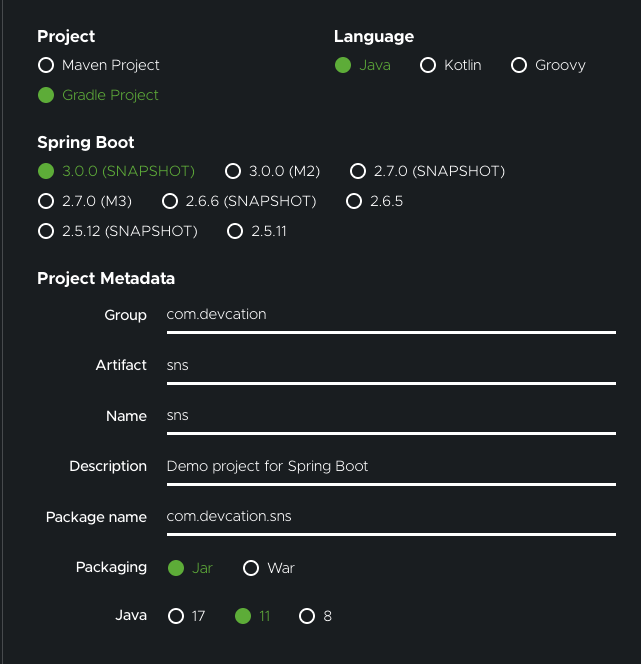
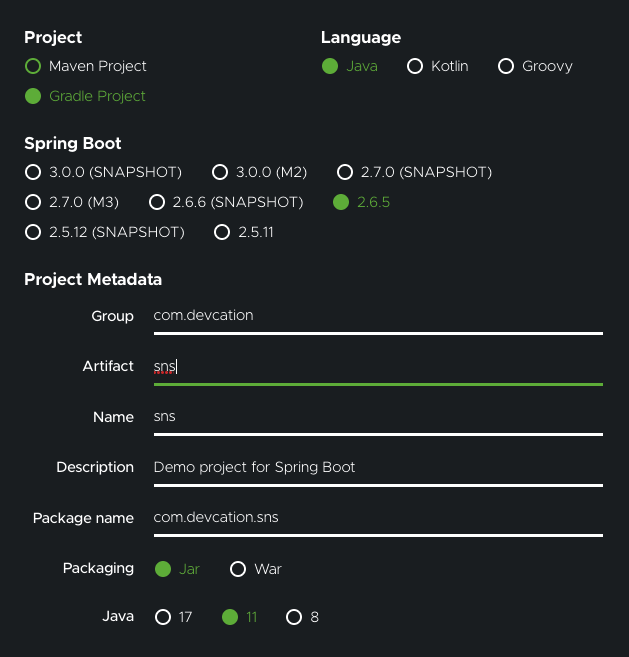
start.spring.io
initializr

diff --git a/sns/HELP.md b/sns/HELP.md
@@ -1,16 +1,11 @@
-# Read Me First
-The following was discovered as part of building this project:
-
-* The JVM level was changed from '11' to '17', review the [JDK Version Range](https://github.com/spring-projects/spring-framework/wiki/Spring-Framework-Versions#jdk-version-range) on the wiki for more details.
-
 # Getting Started
 
 ### Reference Documentation
 For further reference, please consider the following sections:
 
 * [Official Gradle documentation](https://docs.gradle.org)
-* [Spring Boot Gradle Plugin Reference Guide](https://docs.spring.io/spring-boot/docs/3.0.0-SNAPSHOT/gradle-plugin/reference/html/)
-* [Create an OCI image](https://docs.spring.io/spring-boot/docs/3.0.0-SNAPSHOT/gradle-plugin/reference/html/#build-image)
+* [Spring Boot Gradle Plugin Reference Guide](https://docs.spring.io/spring-boot/docs/2.6.5/gradle-plugin/reference/html/)
+* [Create an OCI image](https://docs.spring.io/spring-boot/docs/2.6.5/gradle-plugin/reference/html/#build-image)
 
 ### Additional Links
 These additional references should also help you:
